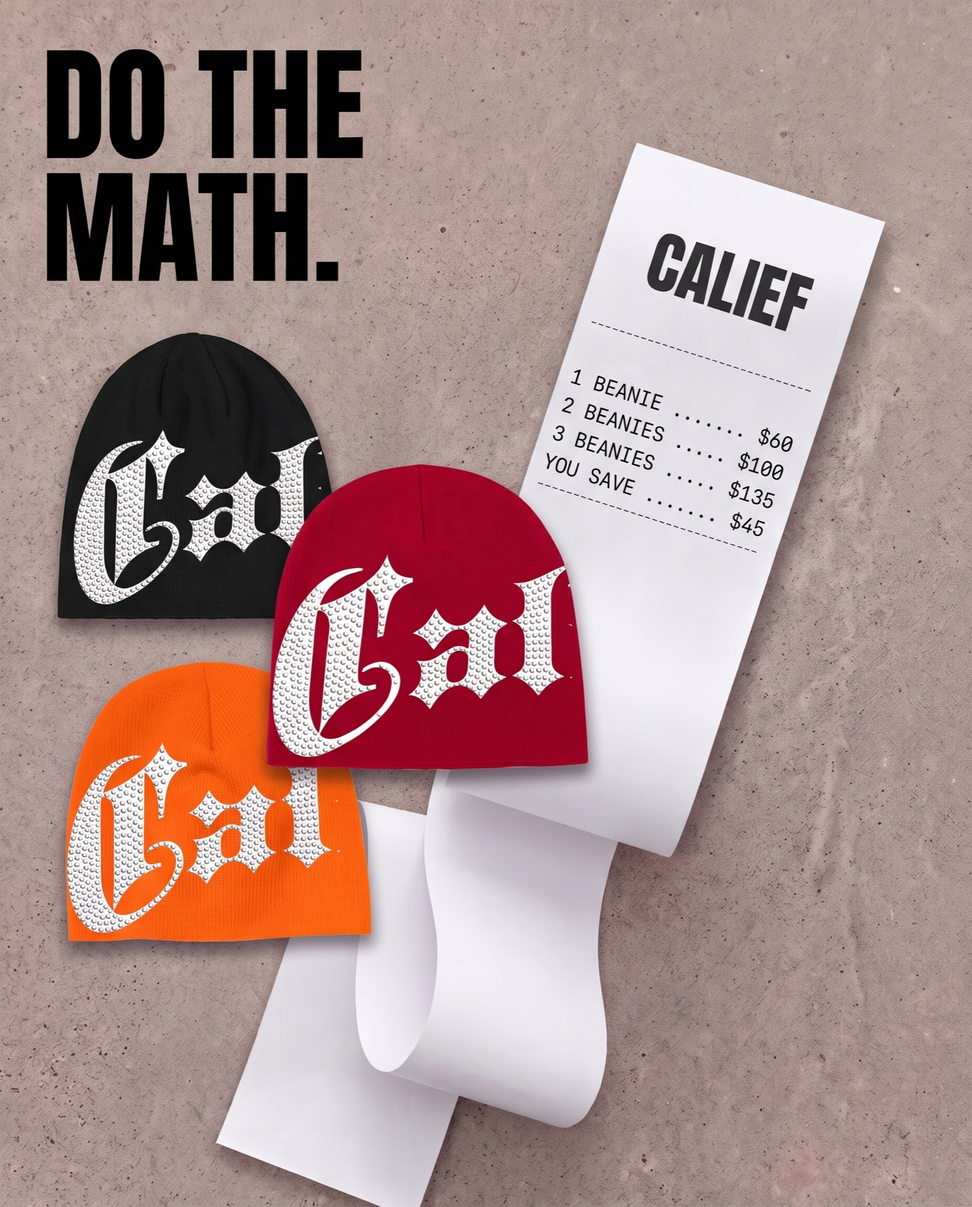
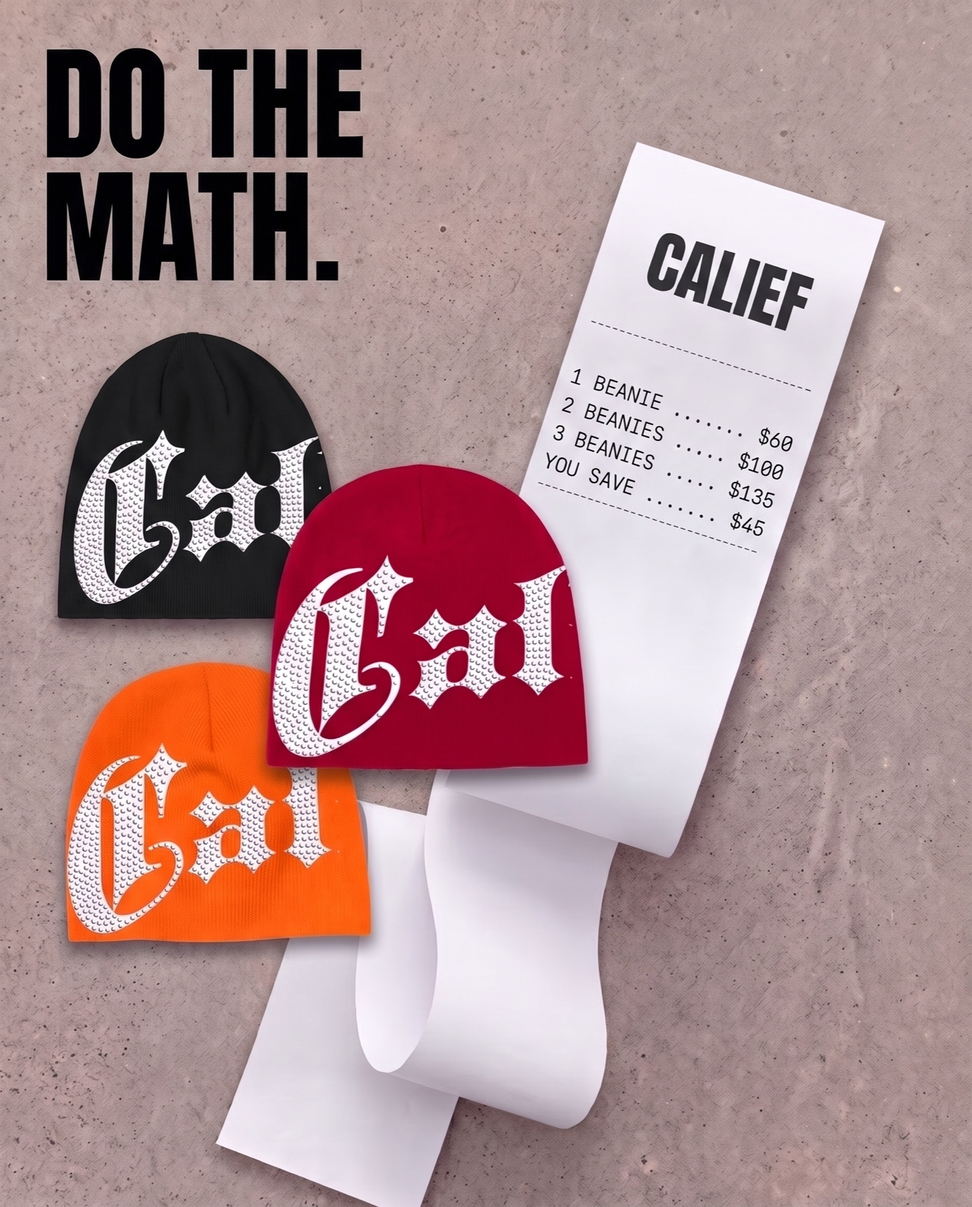
Fine-tuned picks: 01 + 02 on white, lettering and headline fixes

diff --git a/README.md b/README.md
@@ -1,14 +1,12 @@
-# CALIEF — New Beanie Ad Creatives
+# CALIEF — Beanie Ad Creatives (fine-tuned)
 
-18 new statics for review. Offer on the ads: **1 beanie $60 · 2 for $100 · 3 for $135.**
+The 11 picks, fine-tuned. 01 and 02 are now on a white background to showcase the beanies. Numbers match the first round.
 
-Tap any ad to see it full size. Tell us the numbers you love and any you want cut.
+Offer on the ads: **1 beanie $60 · 2 for $100 · 3 for $135.**
 
 <table>
 <tr><td width="33%" align="center"><a href="ads/G01.jpg"><img src="ads/G01.jpg" width="100%"></a><br><b>01</b> Mockup</td><td width="33%" align="center"><a href="ads/G06.jpg"><img src="ads/G06.jpg" width="100%"></a><br><b>02</b> Clothesline</td><td width="33%" align="center"><a href="ads/G08.jpg"><img src="ads/G08.jpg" width="100%"></a><br><b>03</b> Supermarket Tray</td></tr>
-<tr><td width="33%" align="center"><a href="ads/G09.jpg"><img src="ads/G09.jpg" width="100%"></a><br><b>04</b> Menu Combos</td><td width="33%" align="center"><a href="ads/G10.jpg"><img src="ads/G10.jpg" width="100%"></a><br><b>05</b> Magazine</td><td width="33%" align="center"><a href="ads/G11.jpg"><img src="ads/G11.jpg" width="100%"></a><br><b>06</b> Billboard</td></tr>
-<tr><td width="33%" align="center"><a href="ads/G16.jpg"><img src="ads/G16.jpg" width="100%"></a><br><b>07</b> Do The Math (Receipt)</td><td width="33%" align="center"><a href="ads/G17.jpg"><img src="ads/G17.jpg" width="100%"></a><br><b>08</b> Every Detail (Flat Lay)</td><td width="33%" align="center"><a href="ads/G18.jpg"><img src="ads/G18.jpg" width="100%"></a><br><b>09</b> Car Trunk</td></tr>
-<tr><td width="33%" align="center"><a href="ads/G19.jpg"><img src="ads/G19.jpg" width="100%"></a><br><b>10</b> Museum Piece</td><td width="33%" align="center"><a href="ads/G20.jpg"><img src="ads/G20.jpg" width="100%"></a><br><b>11</b> Fresh Out The Oven</td><td width="33%" align="center"><a href="ads/G22.jpg"><img src="ads/G22.jpg" width="100%"></a><br><b>12</b> Laundromat</td></tr>
-<tr><td width="33%" align="center"><a href="ads/G24.jpg"><img src="ads/G24.jpg" width="100%"></a><br><b>13</b> Gift Box</td><td width="33%" align="center"><a href="ads/G25.jpg"><img src="ads/G25.jpg" width="100%"></a><br><b>14</b> Jewellery Case</td><td width="33%" align="center"><a href="ads/G26.jpg"><img src="ads/G26.jpg" width="100%"></a><br><b>15</b> Price Check (Hang Tag)</td></tr>
-<tr><td width="33%" align="center"><a href="ads/G28.jpg"><img src="ads/G28.jpg" width="100%"></a><br><b>16</b> Black Friday Menu</td><td width="33%" align="center"><a href="ads/R1.jpg"><img src="ads/R1.jpg" width="100%"></a><br><b>17</b> The Ladder</td><td width="33%" align="center"><a href="ads/R2F.jpg"><img src="ads/R2F.jpg" width="100%"></a><br><b>18</b> Look Closer</td></tr>
+<tr><td width="33%" align="center"><a href="ads/G16.jpg"><img src="ads/G16.jpg" width="100%"></a><br><b>07</b> Do The Math (Receipt)</td><td width="33%" align="center"><a href="ads/G18.jpg"><img src="ads/G18.jpg" width="100%"></a><br><b>09</b> Car Trunk</td><td width="33%" align="center"><a href="ads/G20.jpg"><img src="ads/G20.jpg" width="100%"></a><br><b>11</b> Fresh Out The Oven</td></tr>
+<tr><td width="33%" align="center"><a href="ads/G22.jpg"><img src="ads/G22.jpg" width="100%"></a><br><b>12</b> Laundromat</td><td width="33%" align="center"><a href="ads/G24.jpg"><img src="ads/G24.jpg" width="100%"></a><br><b>13</b> Gift Box</td><td width="33%" align="center"><a href="ads/G26.jpg"><img src="ads/G26.jpg" width="100%"></a><br><b>15</b> Price Check (Hang Tag)</td></tr>
+<tr><td width="33%" align="center"><a href="ads/R1.jpg"><img src="ads/R1.jpg" width="100%"></a><br><b>17</b> The Ladder</td><td width="33%" align="center"><a href="ads/R2F.jpg"><img src="ads/R2F.jpg" width="100%"></a><br><b>18</b> Look Closer</td></tr>
 </table>
